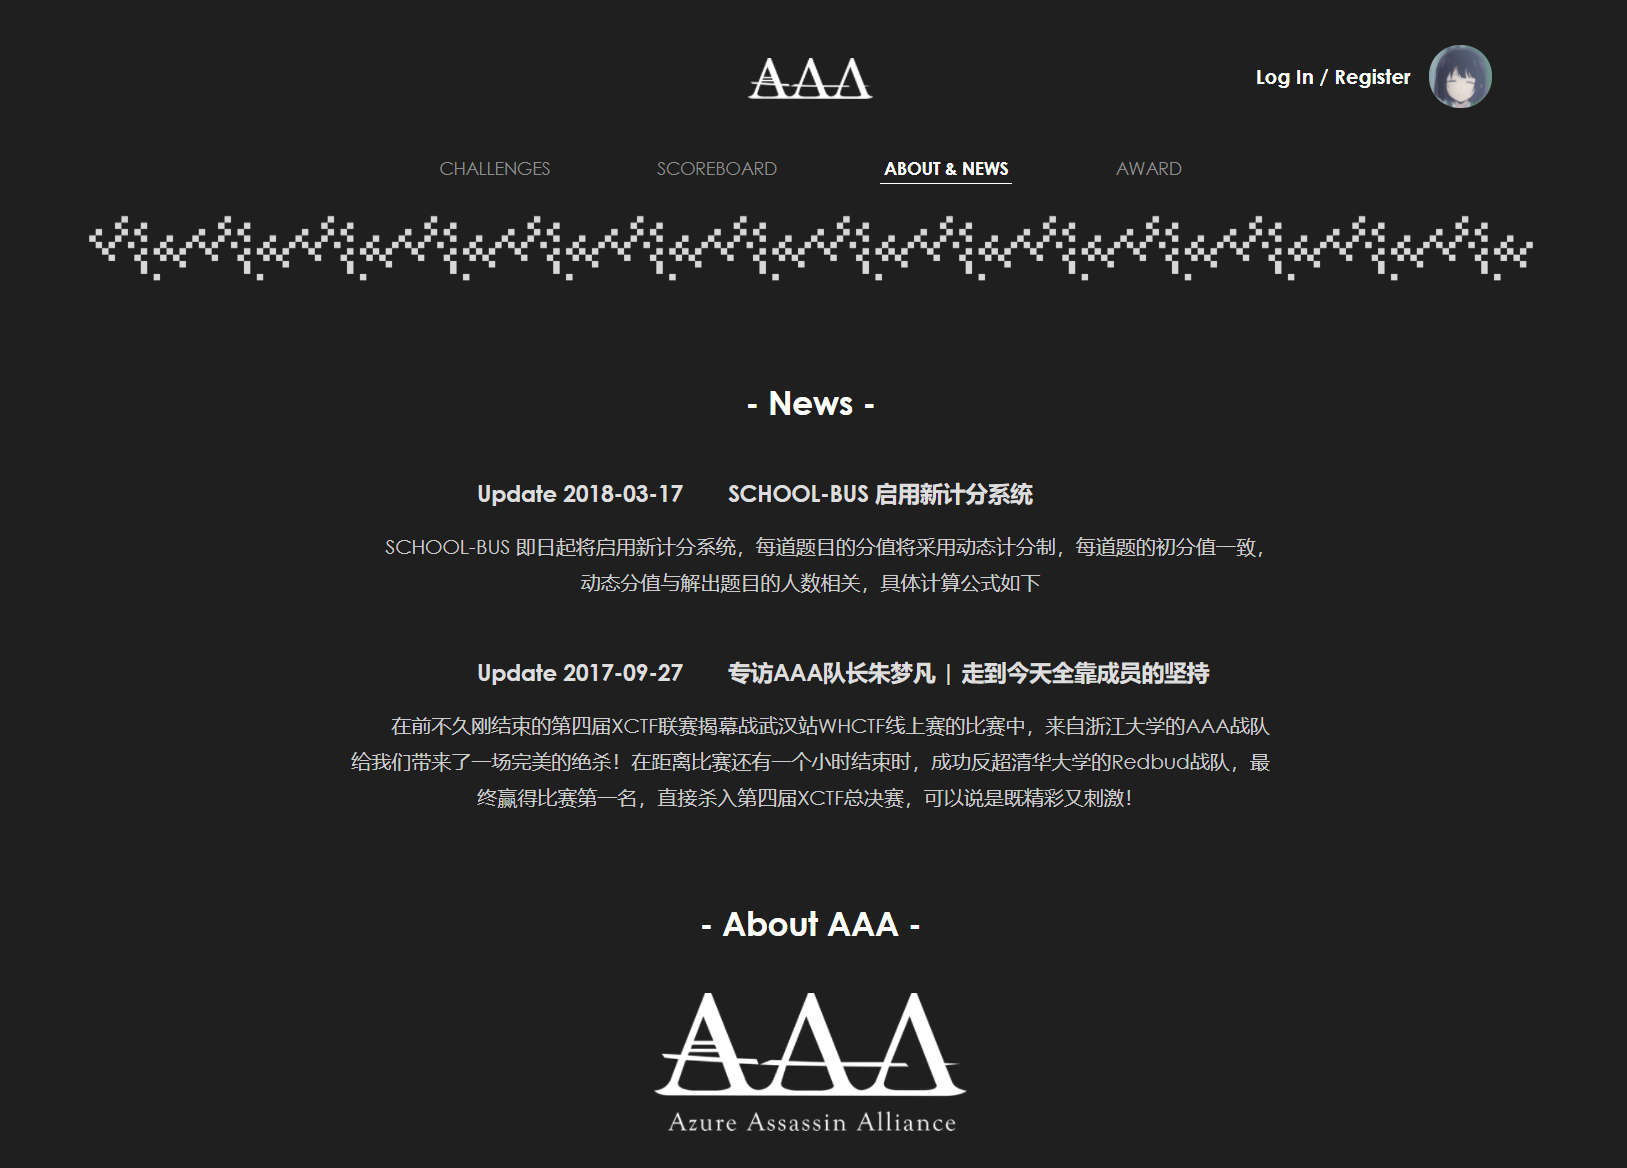
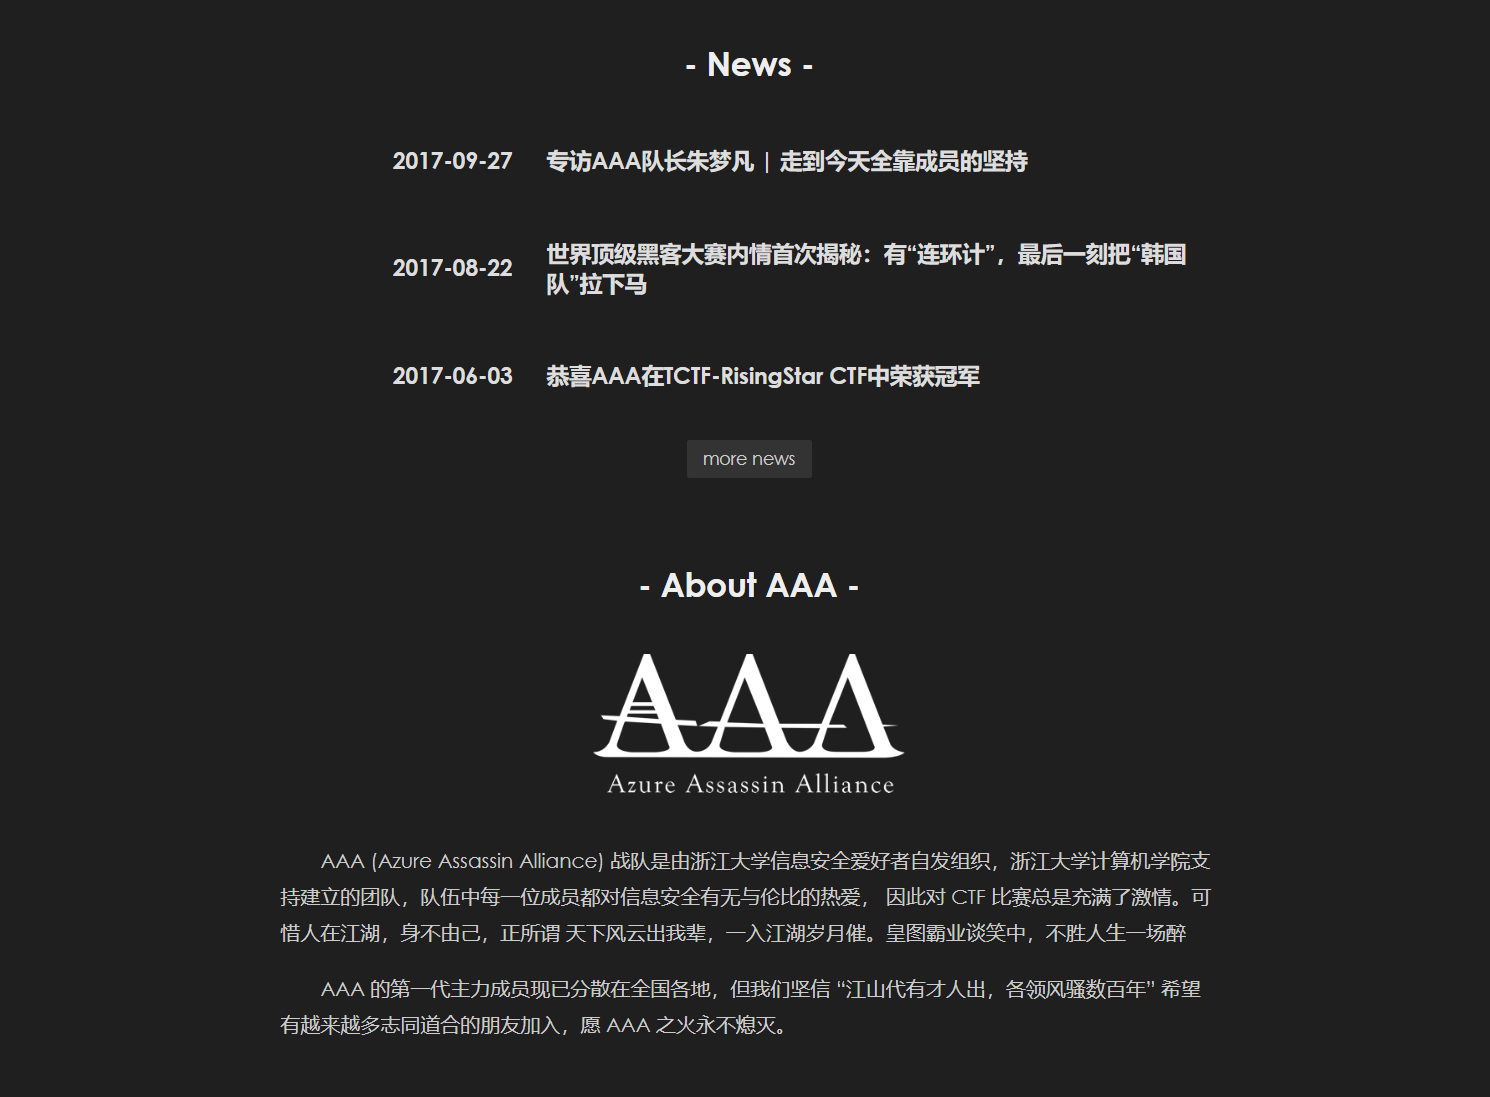
fix some problems
- add pwner_times
- fix favicon.ico
- remove 'Update' field in news
- compress logo

diff --git a/src/page/challenges/CBody.vue b/src/page/challenges/CBody.vue
@@ -47,6 +47,7 @@
     )
 
   h2.subtit Completed
+    span.pwnedtimes {{ challenge.pwned_times ? `${challenge.pwned_times} times` : '' }}
   div.content
     p
       span.pwnername(
@@ -171,10 +172,10 @@ export default {
     margin 0 110px
     margin-top 30px
     font-size 22px
-    font-weight lighter
+    font-weight normal
     // font-style italic
     text-align left
-    color #bbb
+    color #ccc
 
   >.hint .icon
     cursor pointer
@@ -194,7 +195,7 @@ export default {
     padding-right 20px
     // border 1px solid #fff
     font-size 14px
-    color #ddd
+    color #aaa
 
     >p
       margin .8em 0
@@ -234,7 +235,12 @@ export default {
       margin-right 16px
       // font-weight bold
       // font-style italic
-      color #aaa
+
+  .pwnedtimes
+    margin-left 2em
+    font-size 16px
+    // font-style italic
+    color #555
 
   .-delay
     transition-property transform

diff --git a/src/page/about/Announcement.vue b/src/page/about/Announcement.vue
@@ -1,7 +1,7 @@
 <template lang="pug">
 .anno-cp
   .annometa(@click="toggle")
-    time.annotime Update {{ time }}
+    time.annotime {{ time }}
     h4.annotit {{ title }}
 
   p.annobody(
@@ -56,7 +56,7 @@ export default {
 
     >.annotime
       flex 0 0 auto
-      margin-left 4em
+      margin-left 5em
       margin-right 1.5em
 
   >.annobody

diff --git a/webpack.config.debug.js b/webpack.config.debug.js
@@ -66,8 +66,8 @@ module.exports = {
     open: true,
     proxy: {
       "/api": {
-        // target: "https://www.zjusec.com",
-        target: "http://localhost:5000",
+        target: "https://www.zjusec.com",
+        // target: "http://localhost:5000",
         changeOrigin: true,
         pathRewrite: {
           // '^/api/v1': ''

diff --git a/src/store/mutations.js b/src/store/mutations.js
@@ -55,6 +55,7 @@ export default {
   [t.SLOVE_CHALLENGE](state, challenge) {
     challenge.is_solved = true
     challenge.early_pwner.push(state.userInfo.name)
+    challenge.pwned_times++
     // state.userInfo.score += challenge.points
   },
 }

diff --git a/src/page/challenges/CBox.vue b/src/page/challenges/CBox.vue
@@ -76,8 +76,10 @@ $box-width = 200px // 200 + 20*2 = 240px
     color #646464
     text-align center
     word-wrap break-word
+    // word-break break-all
     line-height 1.1
     cursor pointer
+
     &:hover
       color #E1C79B
 

diff --git a/src/page/notFound/index.vue b/src/page/notFound/index.vue
@@ -34,7 +34,7 @@ export default {
 
   >.intro
     font-size 16px
-    line-height 1.8
+    line-height 1.5
     color #ccc
     text-align center
 </style>

diff --git a/src/components/HeadNav.vue b/src/components/HeadNav.vue
@@ -30,7 +30,7 @@ $text-color-hover = #ffffff
   text-align center
 
   >.logonew
-    width 230px
+    width 180px
     margin 5px
 
   >.nav
